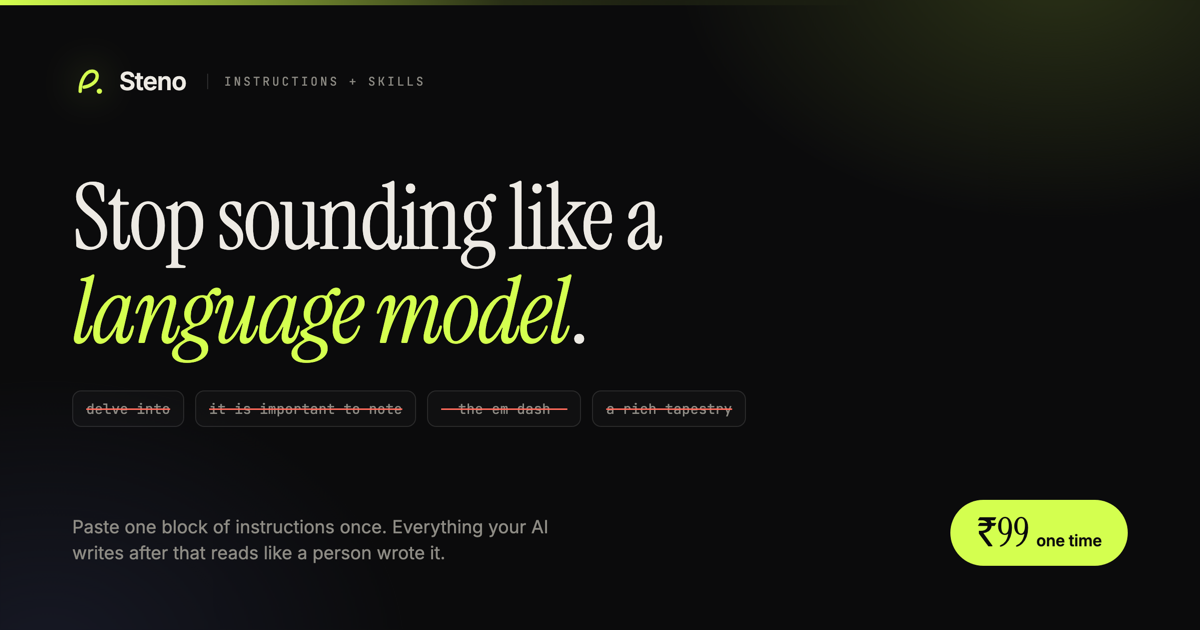
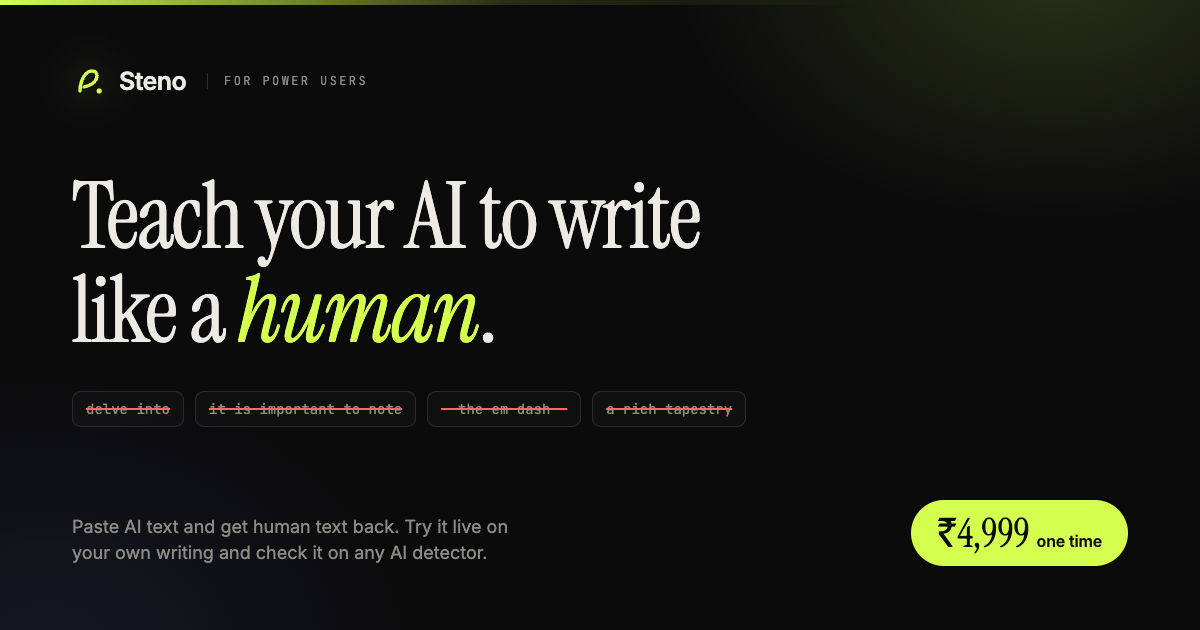
feat(og): update share card for new message and price
Change the share card headline to 'Teach your AI to write like a human', the tag to 'for power users' and the price to 4,999 rupees. Render og.png again from og.html.

diff --git a/og.html b/og.html
@@ -75,11 +75,11 @@
     <div class="brand">
       <svg viewBox="0 0 32 32" fill="none"><path d="M7.5 25.5c0-10.5 5.4-19 11.2-19 3.1 0 4.8 2 4.8 4.7 0 6.2-7.6 9.6-12.3 10.4" stroke="currentColor" stroke-width="3.2" stroke-linecap="round"/><circle cx="25.6" cy="25.4" r="2.5" fill="currentColor"/></svg>
       <b>Steno</b>
-      <span>instructions + skills</span>
+      <span>for power users</span>
     </div>
 
     <div>
-      <h1>Stop sounding like a <em>language model</em>.</h1>
+      <h1>Teach your AI to write like a <em>human</em>.</h1>
       <div class="tags">
         <span>delve into</span>
         <span>it is important to note</span>
@@ -89,8 +89,8 @@
     </div>
 
     <div class="foot">
-      <p>Paste one block of instructions once. Everything your AI writes after that reads like a person wrote it.</p>
-      <div class="price"><b>₹99</b><s>one time</s></div>
+      <p>Paste AI text and get human text back. Try it live on your own writing and check it on any AI detector.</p>
+      <div class="price"><b>₹4,999</b><s>one time</s></div>
     </div>
   </div>
 </body>
